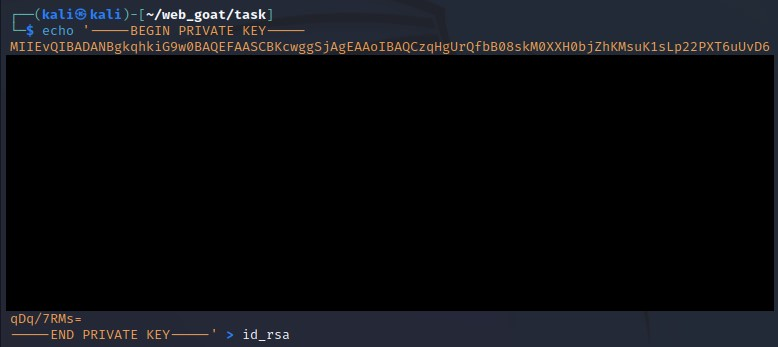
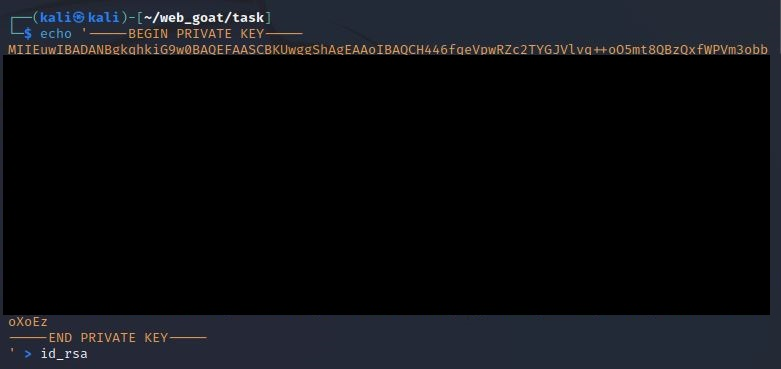
Menambahkan Crypto basic

Changed region(s): [[0.0, 0.0, 1.0, 0.9798]]

diff --git a/A2 Crypto Basics.md b/A2 Crypto Basics.md
@@ -4,7 +4,7 @@
 echo 'dGVzdGluZzpwYXNzdzByZA==' | base64 --decode
 ``` 
 
-![alt text](https://github.com/rahardian-dwi-saputra/webgoat/blob/main/assets/wg%201.JPG)
+![alt text](https://github.com/rahardian-dwi-saputra/webgoat/blob/main/assets/crypto%20basics/crypto%20basic%201.JPG)
 
 **Jawaban:**
 - Username
@@ -20,7 +20,7 @@ passw0rd
 - **Pertanyaan:** {xor}Oz4rPj0+LDovPiwsKDAtOw==
 - Gunakan XOR decoder online https://strelitzia.net/wasXORdecoder/wasXORdecoder.html
 
-![alt text](https://github.com/rahardian-dwi-saputra/webgoat/blob/main/assets/wg%202.JPG)
+![alt text](https://github.com/rahardian-dwi-saputra/webgoat/blob/main/assets/crypto%20basics/crypto%20basic%202.JPG)
 
 **Jawaban:**
 ```sh
@@ -33,7 +33,7 @@ databasepassword
 	- 2BB80D537B1DA3E38BD30361AA855686BDE0EACD7162FEF6A25FE97BF527A25B
 - Gunakan tool decrypt hash online https://crackstation.net/
 
-![alt text](https://github.com/rahardian-dwi-saputra/webgoat/blob/main/assets/wg%203.JPG)
+![alt text](https://github.com/rahardian-dwi-saputra/webgoat/blob/main/assets/crypto%20basics/crypto%20basic%203.JPG)
 
 **Jawaban:**
 ```sh
@@ -42,9 +42,44 @@ secret
 ```
 
 # RSA Private Key
-- Simpan private key dengan nama file **privatekey.pem**
+- Simpan private key ke dalam sebuah file dengan nama **id_rsa**
 ```sh
 echo 'paste privatekey disini' > id_rsa
 ```
 
-![alt text](https://github.com/rahardian-dwi-saputra/webgoat/blob/main/assets/wg%204.jpg)
+![alt text](https://github.com/rahardian-dwi-saputra/webgoat/blob/main/assets/crypto%20basics/crypto%20basic%204.jpg)
+
+- Ambil public key dari private key dan simpan dengan nama file **id_rsa.pub**
+```sh
+openssl rsa -in id_rsa -pubout > id_rsa.pub
+```
+
+![alt text](https://github.com/rahardian-dwi-saputra/webgoat/blob/main/assets/crypto%20basics/crypto%20basic%205.jpg)
+
+- Ambil nilai modulus dari public key dan copy nilai modulus tersebut untuk menjawab soal
+```sh
+openssl rsa -in id_rsa.pub -pubin -modulus -noout
+```
+
+![alt text](https://github.com/rahardian-dwi-saputra/webgoat/blob/main/assets/crypto%20basics/crypto%20basic%206.jpg)
+
+- Ambil sign dari modulus dan private key dan simpan dengan nama file **sign.sha256**
+```sh
+echo -n "paste modulus disini" | openssl dgst -sign id_rsa -sha256 -out sign.sha256
+```
+
+![alt text](https://github.com/rahardian-dwi-saputra/webgoat/blob/main/assets/crypto%20basics/crypto%20basic%207.jpg)
+
+- Encode file **sign.sha256** dengan base64
+```sh
+openssl enc -base64 -in sign.sha256 -out sign.sha256.base64
+```
+
+![alt text](https://github.com/rahardian-dwi-saputra/webgoat/blob/main/assets/crypto%20basics/crypto%20basic%208.jpg)
+
+- Tampilkan isi file **sign.sha256.base64** dan copy isinya untuk menjawab soal
+```sh
+cat sign.sha256.base64
+```
+
+![alt text](https://github.com/rahardian-dwi-saputra/webgoat/blob/main/assets/crypto%20basics/crypto%20basic%209.jpg)
